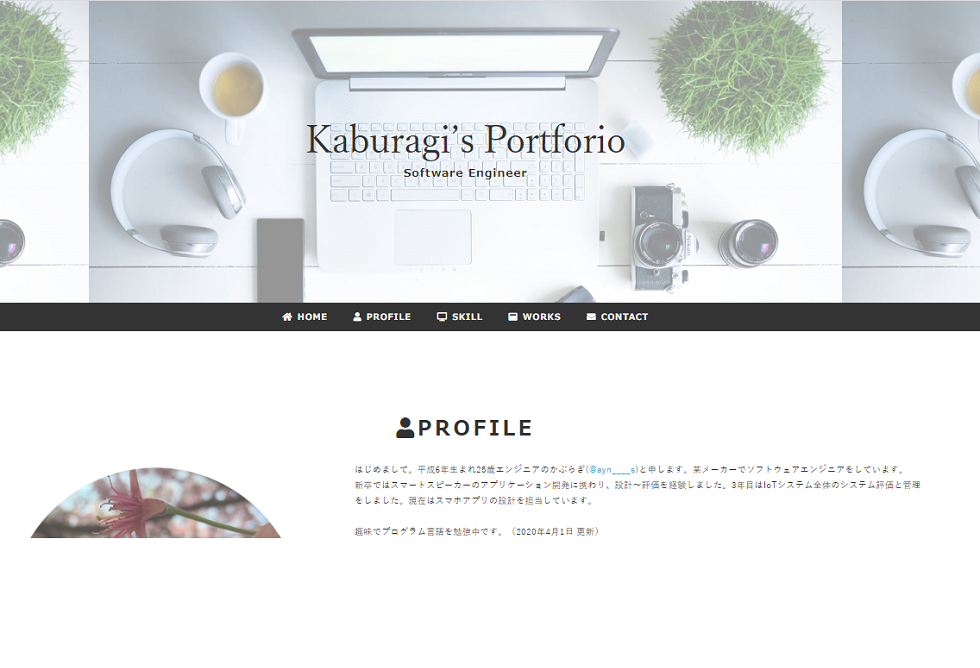
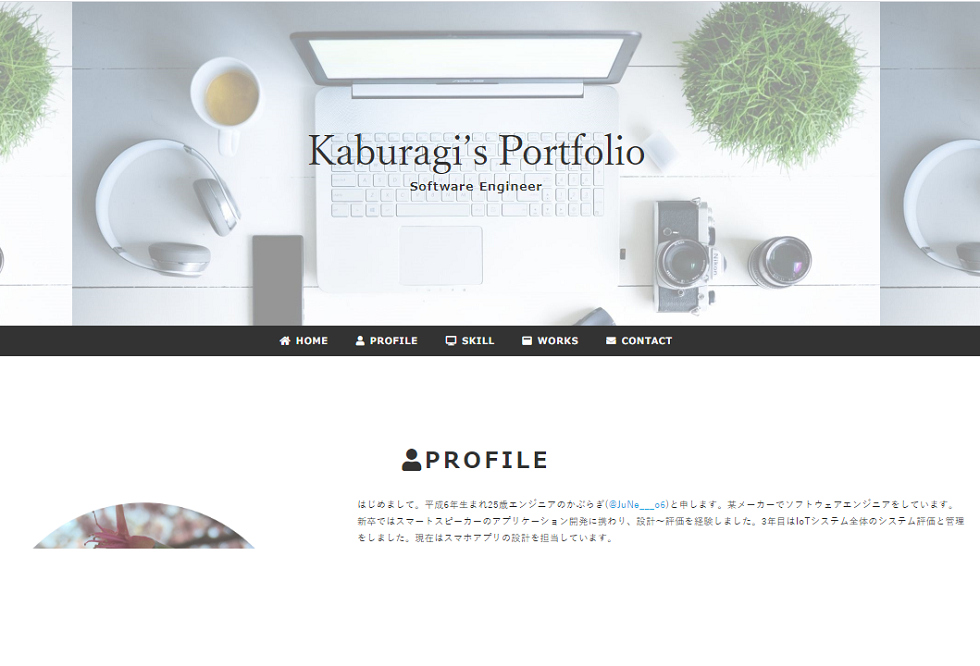
[fix] 軽微な修正
文言修正、画像の差し替え

diff --git a/portfolio.html b/portfolio.html
@@ -24,7 +24,7 @@
   <div id="wrapper">
     <header id="header">
       <h1 class="logo">
-        <span class="logo-title">Kaburagi’s Portforio</span>
+        <span class="logo-title">Kaburagi’s Portfolio</span>
         <span class="logo-desc">Software  Engineer</span>
 
       </h1>
